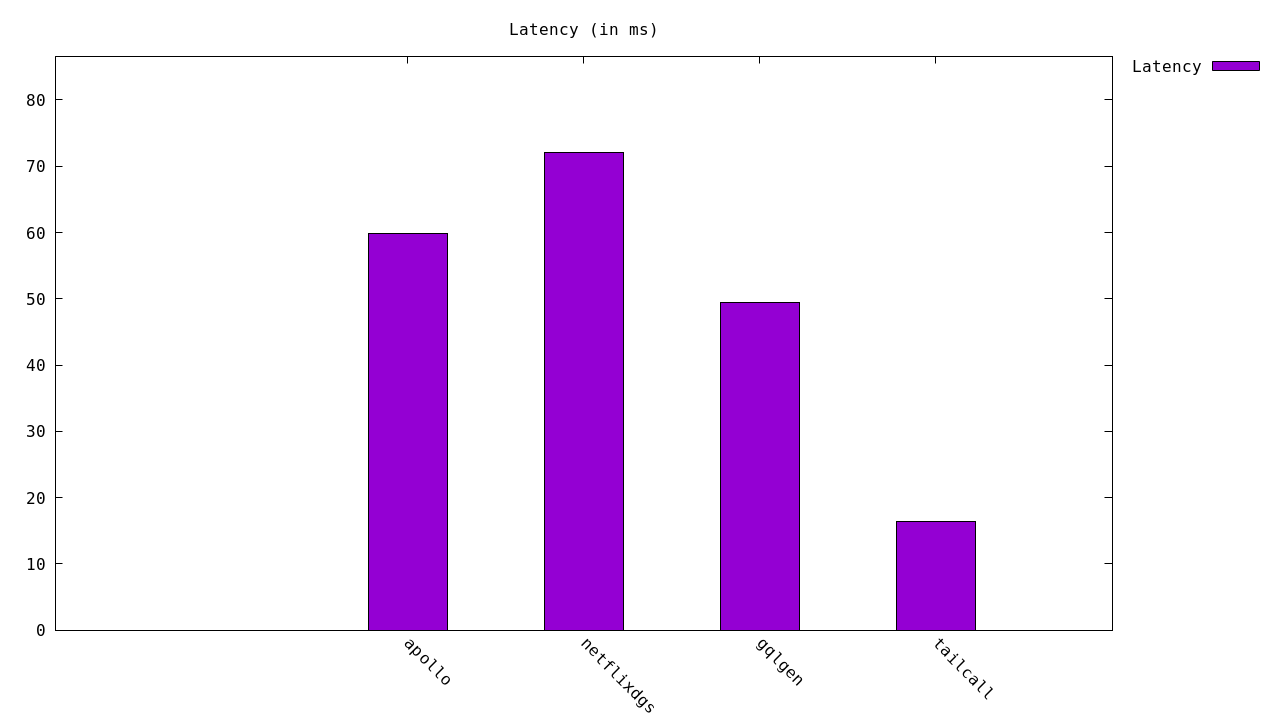
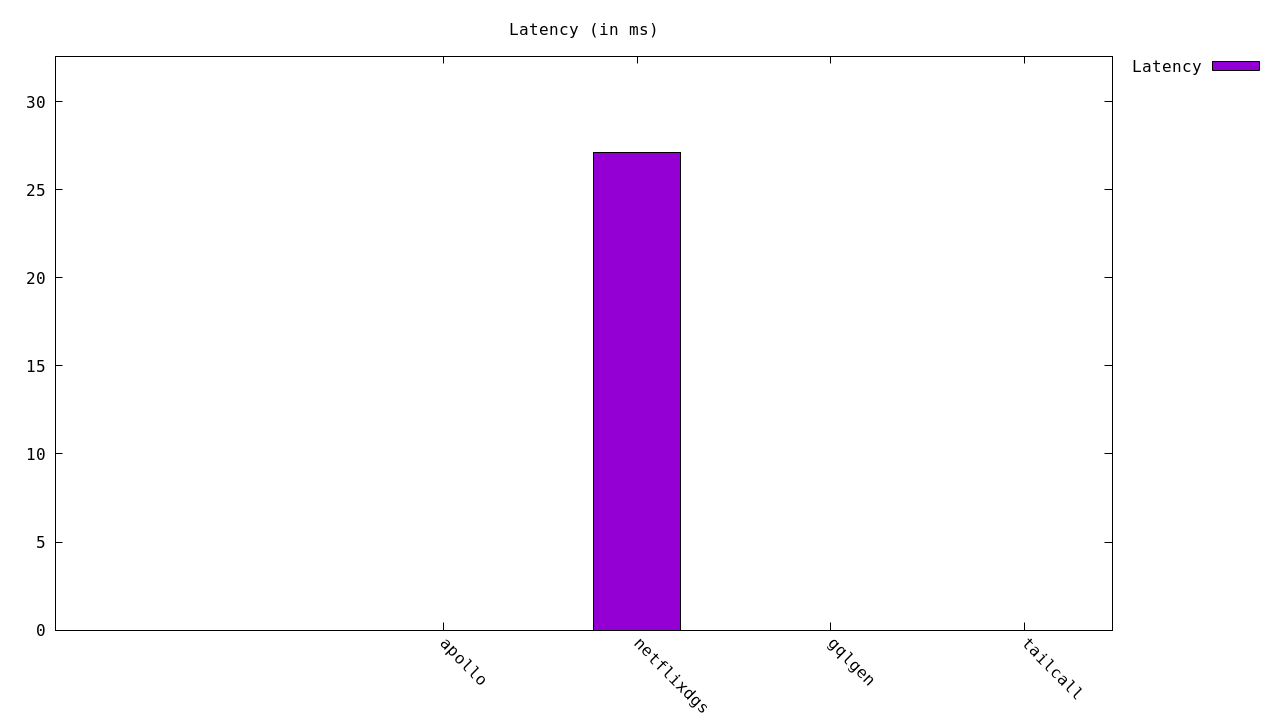
chore: use ubuntu-latest

diff --git a/README.md b/README.md
@@ -45,10 +45,10 @@ Get started with the benchmarks:
 
 | Server | Requests/sec | Latency (ms) |
 |--------:|--------------:|--------------:|
-| [Tailcall] | 6,102.39 | 16.36 |
-| [Gqlgen] | 2,092.07 | 49.50 |
-| [Apollo GraphQL] | 1,668.19 | 59.91 |
-| [Netflix DGS] | 1,449.72 | 72.13 |
+| [Netflix DGS] | `4,673.95` | `27.13` |
+| [Tailcall] | `nan` | `nan` |
+| [Gqlgen] | `nan` | `nan` |
+| [Apollo GraphQL] | `nan` | `nan` |
 
 <!-- PERFORMANCE_RESULTS_END -->
 
